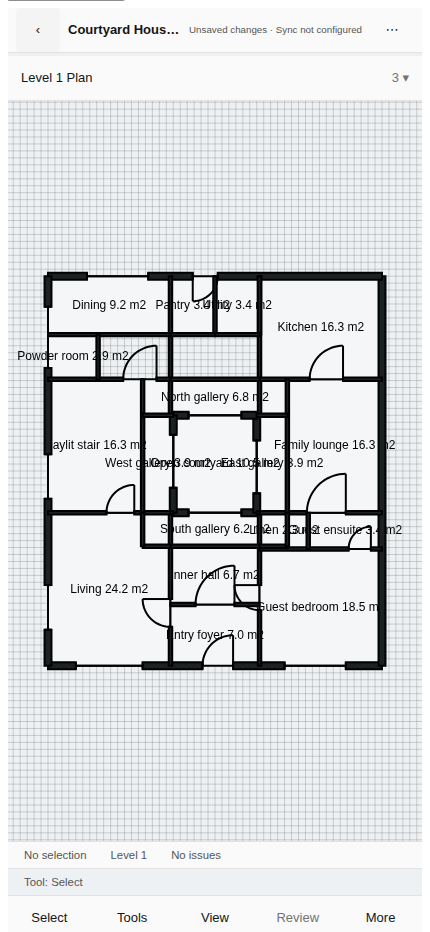
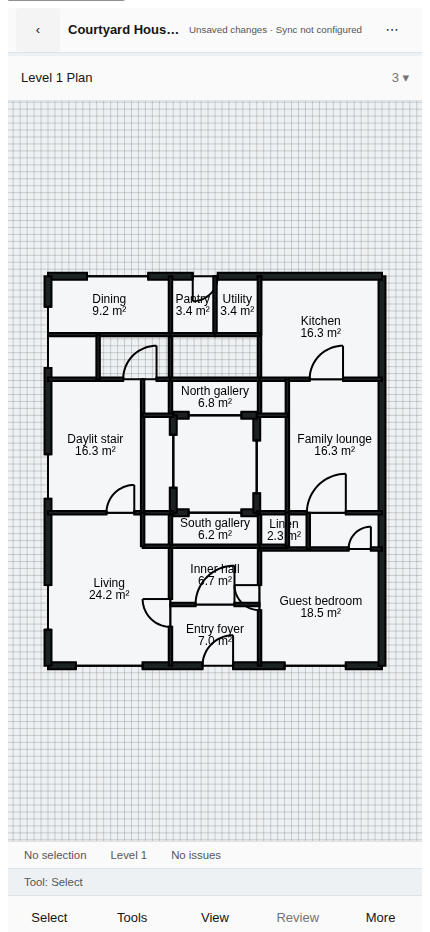
Stop a room from claiming a name it has no room to show
The phone capture made this visible: on the golden fixture's galleries - a few
millimetres wide at that scale - three labels overlapped into an unreadable
smear that also hid the walls underneath.

Three separate causes, all of them the same kind of thing.

`roomLabelText` has produced a two-line label, name over area, since it was
written, and nothing used it: the app assembled its own single line, twice as
wide as it needed to be. That is the width that collided.

`fillText` renders a newline as a space, so even the two-line label would have
come out as one long line. The paint now draws multi-line text line by line,
centred on its anchor so a two-line label sits on the point it was anchored to
rather than hanging below it.

And a label was placed and never checked. `roomLabelFits` measures in screen
pixels rather than world units, because that is what legibility depends on - the
same room is legible zoomed in and not zoomed out, and the label does not shrink
with the drawing. A label that cannot fit inside its room, with clear space
around it, is not drawn. The room is still drawn, still selectable and still
names itself in the Inspector, so nothing is lost except a claim nobody could
read.

Evidence: 5 new tests; `pnpm vitest run` 3,610 tests / 333 files uncached;
typecheck, lint and build clean; language ladder refreshed with audit PASS; the
four-viewport capture re-run green, and the phone capture now shows legible
[…]

diff --git a/apps/web/src/PlanCanvas.tsx b/apps/web/src/PlanCanvas.tsx
@@ -45,6 +45,7 @@ import {
   swingPolyline,
   wallPiers,
   type PlanOpeningInput,
+  roomLabelFits,
 } from '@arq/plan-renderer';
 import {
   GRID_SPACING_MM,
@@ -104,6 +105,28 @@ function emptyContentBounds(
   if (content.rooms.length > 0 || content.walls.length > 0) return null;
   const half = EMPTY_VIEW_EXTENT_MM / 2;
   return { min: worldPoint(-half, -half), max: worldPoint(half, half) };
+}
+
+/** Matches `TEXT_LINE_HEIGHT_PX` in the paint, which is what actually spaces the lines. */
+const ROOM_LABEL_LINE_HEIGHT_PX = 12;
+
+/** A polygon's screen-space bounding box, which is what a label has to fit inside. */
+function polygonExtentPx(
+  polygon: readonly WorldPoint[],
+  viewport: Viewport,
+): { readonly width: number; readonly height: number } {
+  let minX = Number.POSITIVE_INFINITY;
+  let minY = Number.POSITIVE_INFINITY;
+  let maxX = Number.NEGATIVE_INFINITY;
+  let maxY = Number.NEGATIVE_INFINITY;
+  for (const point of polygon) {
+    const screen = worldToScreen(viewport, point);
+    minX = Math.min(minX, screen.x);
+    minY = Math.min(minY, screen.y);
+    maxX = Math.max(maxX, screen.x);
+    maxY = Math.max(maxY, screen.y);
+  }
+  return { width: maxX - minX, height: maxY - minY };
 }
 
 const EMPTY_SET: ReadonlySet<string> = new Set<string>();
@@ -369,14 +392,41 @@ export function PlanCanvas(props: PlanCanvasProps): JSX.Element {
         elementId: room.id,
         points: room.polygon,
       })),
-      ...rooms.map((room): PlanPrimitiveInput<string> => ({
-        kind: 'text',
-        // Labelled at the polygon's centroid rather than a fixed offset, so a
-        // room of any shape carries its label inside itself.
-        elementId: `${room.id}-label`,
-        anchor: polygonCentroid(room.polygon),
-        text: room.label,
-      })),
+      ...rooms.flatMap((room): PlanPrimitiveInput<string>[] => {
+        /*
+         * A label is drawn only when it fits inside its own room at the scale
+         * being drawn. Unchecked, the golden fixture's galleries on a phone are
+         * a few millimetres wide on screen and their labels are wider than the
+         * rooms - three of them overlapped into an unreadable smear that also
+         * hid the walls underneath. The room is still drawn, still selectable
+         * and still names itself in the Inspector, so nothing is lost except a
+         * claim that could not be read.
+         */
+        const anchor = polygonCentroid(room.polygon);
+        const lines = room.label.split('\n');
+        const widestLinePx = Math.max(...lines.map((line) => ctx.measureText(line).width));
+        const extent = polygonExtentPx(room.polygon, currentViewport);
+        if (
+          !roomLabelFits({
+            labelWidthPx: widestLinePx,
+            labelHeightPx: lines.length * ROOM_LABEL_LINE_HEIGHT_PX * devicePixelRatio,
+            roomWidthPx: extent.width,
+            roomHeightPx: extent.height,
+          })
+        ) {
+          return [];
+        }
+        return [
+          {
+            kind: 'text',
+            // Labelled at the polygon's centroid rather than a fixed offset, so
+            // a room of any shape carries its label inside itself.
+            elementId: `${room.id}-label`,
+            anchor,
+            text: room.label,
+          },
+        ];
+      }),
       ...walls.flatMap((wall): PlanPrimitiveInput<string>[] => {
         /*
          * A wall with a known thickness is drawn as its footprint rather than

diff --git a/packages/plan-renderer/src/room-label.test.ts b/packages/plan-renderer/src/room-label.test.ts
@@ -3,6 +3,7 @@ import { worldPoint } from '@arq/geometry-2d';
 import {
   buildRoomLabelPrimitive,
   roomLabelAreaLine,
+  roomLabelFits,
   roomLabelNameLine,
   roomLabelText,
   type RoomLabelSource,
@@ -60,5 +61,55 @@ describe('buildRoomLabelPrimitive', () => {
   it('carries whichever styleToken the caller resolved (e.g. selected-primary)', () => {
     const primitive = buildRoomLabelPrimitive(source, 'selected-primary');
     expect(primitive.styleToken).toBe('selected-primary');
+  });
+});
+
+describe('roomLabelFits', () => {
+  it('draws a label the room has room for', () => {
+    expect(
+      roomLabelFits({
+        labelWidthPx: 60,
+        labelHeightPx: 24,
+        roomWidthPx: 200,
+        roomHeightPx: 140,
+      }),
+    ).toBe(true);
+  });
+
+  it('suppresses a label wider than the room it names', () => {
+    // The golden fixture's galleries on a phone: a few millimetres of room and
+    // a label wider than all of it. Three overlapped into an unreadable smear
+    // that also hid the walls underneath.
+    expect(
+      roomLabelFits({ labelWidthPx: 120, labelHeightPx: 24, roomWidthPx: 40, roomHeightPx: 140 }),
+    ).toBe(false);
+  });
+
+  it('suppresses a label taller than the room, not only a wider one', () => {
+    expect(
+      roomLabelFits({ labelWidthPx: 40, labelHeightPx: 24, roomWidthPx: 200, roomHeightPx: 20 }),
+    ).toBe(false);
+  });
+
+  it('keeps clear space, so a label never reads as touching the walls beside it', () => {
+    // Exactly as wide as the room is not a fit: it would sit hard against both
+    // walls with no gap at all.
+    expect(
+      roomLabelFits({ labelWidthPx: 100, labelHeightPx: 20, roomWidthPx: 100, roomHeightPx: 100 }),
+    ).toBe(false);
+  });
+
+  it('refuses a measurement it cannot trust rather than drawing on a guess', () => {
+    expect(
+      roomLabelFits({
+        labelWidthPx: Number.NaN,
+        labelHeightPx: 20,
+        roomWidthPx: 500,
+        roomHeightPx: 500,
+      }),
+    ).toBe(false);
+    expect(
+      roomLabelFits({ labelWidthPx: 0, labelHeightPx: 20, roomWidthPx: 500, roomHeightPx: 500 }),
+    ).toBe(false);
   });
 });

diff --git a/packages/plan-renderer/src/canvas2d-paint.ts b/packages/plan-renderer/src/canvas2d-paint.ts
@@ -40,6 +40,14 @@ const BRAND_PHTHALO_GREEN = '#0B6B50';
 const HANDLE_RADIUS_CSS_PX = 4;
 
 /**
+ * Leading between the lines of a multi-line primitive, in CSS pixels. A
+ * constant rather than a read of the canvas font because the target is an
+ * interface, not necessarily a real 2D context - the same reason line weights
+ * are passed in rather than measured.
+ */
+const TEXT_LINE_HEIGHT_PX = 12;
+
+/**
  * The two colours the plan is drawn in, and the one it is drawn on.
  *
  * The renderer used to hard-code black ink and a white handle fill, which is
@@ -209,7 +217,25 @@ function paintPrimitive<TId>(
       target.setLineDash([]);
       target.fillStyle = strokeColorForToken(primitive.styleToken, palette);
       const screen = worldToScreen(viewport, primitive.anchor);
-      target.fillText(primitive.text, screen.x, screen.y);
+      /*
+       * Drawn line by line. `fillText` renders a newline as a space, so a room
+       * label built as "name\narea" - which `buildRoomLabelPrimitive` has
+       * produced since it was written - came out as one long line twice as wide
+       * as it should be, which is most of why labels collided at small scales.
+       *
+       * Centred vertically on the anchor so a two-line label sits on the point
+       * it was anchored to rather than hanging below it.
+       */
+      const lines = primitive.text.split('\n');
+      if (lines.length === 1) {
+        target.fillText(primitive.text, screen.x, screen.y);
+        break;
+      }
+      const lineHeight = TEXT_LINE_HEIGHT_PX * devicePixelRatio;
+      const firstOffset = -((lines.length - 1) * lineHeight) / 2;
+      lines.forEach((line, index) => {
+        target.fillText(line, screen.x, screen.y + firstOffset + index * lineHeight);
+      });
       break;
     }
     case 'handle': {

diff --git a/packages/plan-renderer/src/room-label.ts b/packages/plan-renderer/src/room-label.ts
@@ -69,3 +69,39 @@ export function buildRoomLabelPrimitive<TId>(
     styleToken,
   };
 }
+
+/**
+ * Whether a room's label fits inside the room, at the scale it is being drawn.
+ *
+ * Room labels are placed and never checked, which is fine at a scale where the
+ * rooms are large and wrong at every other one: on a phone the golden fixture's
+ * galleries are a few millimetres wide on screen and their labels are wider
+ * than the rooms, so three of them overlap into an unreadable smear that also
+ * obscures the walls underneath. Suppressing a label that cannot fit is the
+ * honest answer - the room is still drawn, still selectable, and still names
+ * itself in the Inspector, and nothing is claimed that cannot be read.
+ *
+ * Measured in screen pixels rather than world units because that is what
+ * legibility depends on: the same room is legible zoomed in and not zoomed out,
+ * and the label does not shrink with the drawing.
+ */
+export function roomLabelFits(measurements: {
+  readonly labelWidthPx: number;
+  readonly labelHeightPx: number;
+  readonly roomWidthPx: number;
+  readonly roomHeightPx: number;
+}): boolean {
+  const { labelWidthPx, labelHeightPx, roomWidthPx, roomHeightPx } = measurements;
+  if (!Number.isFinite(labelWidthPx) || !Number.isFinite(labelHeightPx)) return false;
+  if (labelWidthPx <= 0 || labelHeightPx <= 0) return false;
+  // A label pressed against the walls it sits between reads as touching them.
+  // The margin is a fraction rather than a fixed number of pixels so it holds
+  // at any zoom.
+  return (
+    roomWidthPx >= labelWidthPx * (1 + ROOM_LABEL_MARGIN) &&
+    roomHeightPx >= labelHeightPx * (1 + ROOM_LABEL_MARGIN)
+  );
+}
+
+/** Clear space required around a label, as a fraction of its own size. */
+const ROOM_LABEL_MARGIN = 0.25;

diff --git a/apps/web/src/App.tsx b/apps/web/src/App.tsx
@@ -118,7 +118,7 @@ import {
 } from '@arq/project-loading';
 import type { WallSolidDimensions } from './ModelCanvas';
 import type { PlanRoom } from './canvas/canvas-interaction';
-import type { PlanOpeningInput } from '@arq/plan-renderer';
+import { roomLabelText, type PlanOpeningInput } from '@arq/plan-renderer';
 import type { ModelOpeningSpan } from './ModelCanvas';
 
 /**
@@ -248,7 +248,18 @@ function roomsForLevel(document: NativeProjectDocument, levelId: string): readon
     // `calculatedArea` is already square metres - `recalculateRoomArea` stores
     // the result of `roomAreaSquareMetres`. Converting again here read every
     // room in the golden fixture as "0.0 m2".
-    label: `${room.name} ${room.calculatedArea.toFixed(1)} m2`,
+    /*
+     * Two lines, which is what `roomLabelText` in @arq/plan-renderer has built
+     * since it was written and what nothing was using: name on one, area on the
+     * next. As one line it was twice as wide as it needed to be, and that width
+     * is most of why labels collided at small scales.
+     */
+    label: roomLabelText({
+      elementId: room.id as string,
+      seedPoint: room.seedPoint,
+      name: room.name ?? 'Room',
+      areaSquareMetres: room.calculatedArea,
+    }),
     polygon: room.calculatedBoundary,
   }));
 }

diff --git a/ARQ_V13_IMPLEMENTATION_LEDGER.md b/ARQ_V13_IMPLEMENTATION_LEDGER.md
@@ -124,9 +124,19 @@ level's doors and windows as real openings.
   keeps working unchanged. Both colours come from the appearance, so poché is a
   light solid on a dark page rather than a black shape on near-black.
 
+**Room labels no longer collide.** `roomLabelText` had built a two-line label
+since it was written and nothing used it - the app assembled its own single line,
+twice as wide as it needed to be, and `fillText` renders a newline as a space
+anyway, so even a two-line label would have come out as one. Both are fixed, and
+a label is now drawn only when it fits inside its own room at the scale being
+drawn. On a phone the fixture's galleries are a few millimetres wide and their
+labels were wider than the rooms; three overlapped into a smear that also hid
+the walls. The room is still drawn, still selectable and still names itself in
+the Inspector, so nothing is lost but a claim that could not be read.
+
 **Remaining:** wall joins (four join modules exist unwired, so wall ends meet
-rather than mitre), room-label collision at small scales, and the fixture's five
-linear dimensions - still reported as unsupported, truthfully.
+rather than mitre), and the fixture's five linear dimensions - still reported as
+unsupported, truthfully.
 
 **Evidence:** 25 new tests across `plan-openings.test.ts` and
 `canvas2d-paint.test.ts`; `golden-fixture-model.test.ts` reads the repository's
@@ -260,8 +270,8 @@ project name on screen. A harness assumption about one band's chrome, nearly
 published as a product failure on another - the same shape as the earlier
 "Open" label mistake.
 
-**Visible in the phone capture and still open:** room labels collide at small
-scales. Recorded under slice 6's remaining work.
+**Found by the phone capture and since fixed:** room labels collided at small
+scales. Recorded under slice 6.
 
 **Blocked, unchanged and external:** no CI run exists for this PR, and no
 preview exists for `apps/web`.
